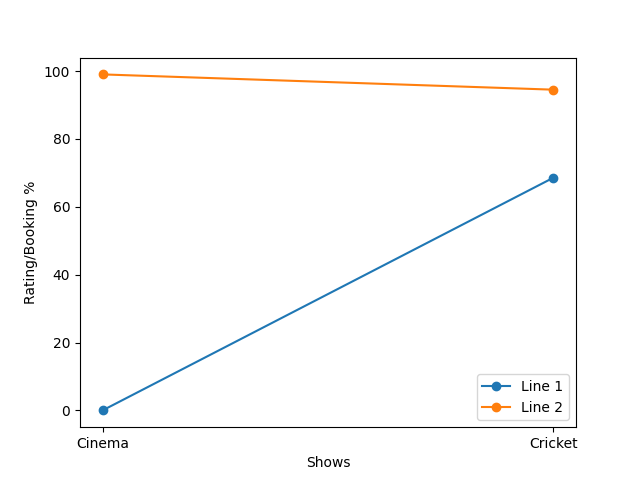
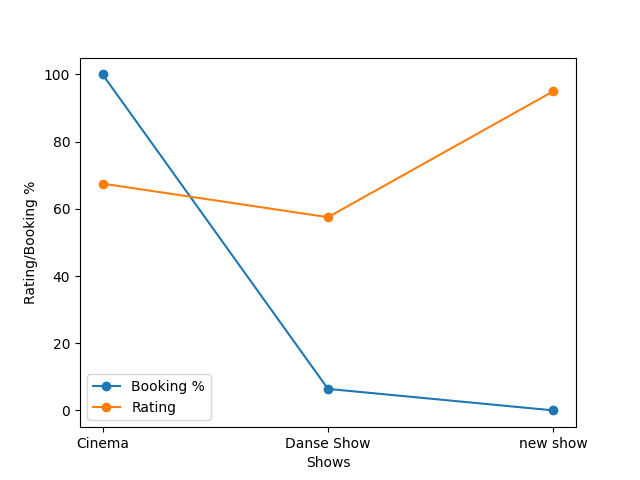
Fix Meta Data in codebase

diff --git a/reserver/routes/admin.py b/reserver/routes/admin.py
@@ -220,8 +220,8 @@ def admin_summary():
                     y2.append(show["rating"])
                 fig = plt.figure()
                 ax = fig.add_subplot(111)
-                ax.plot(x, y1, "-o", label="Line 1")
-                ax.plot(x, y2, "-o", label="Line 2")
+                ax.plot(x, y1, "-o", label="Booking %")
+                ax.plot(x, y2, "-o", label="Rating")
                 ax.set_ylabel("Rating/Booking %")
                 ax.set_xlabel("Shows")
                 ax.legend()
